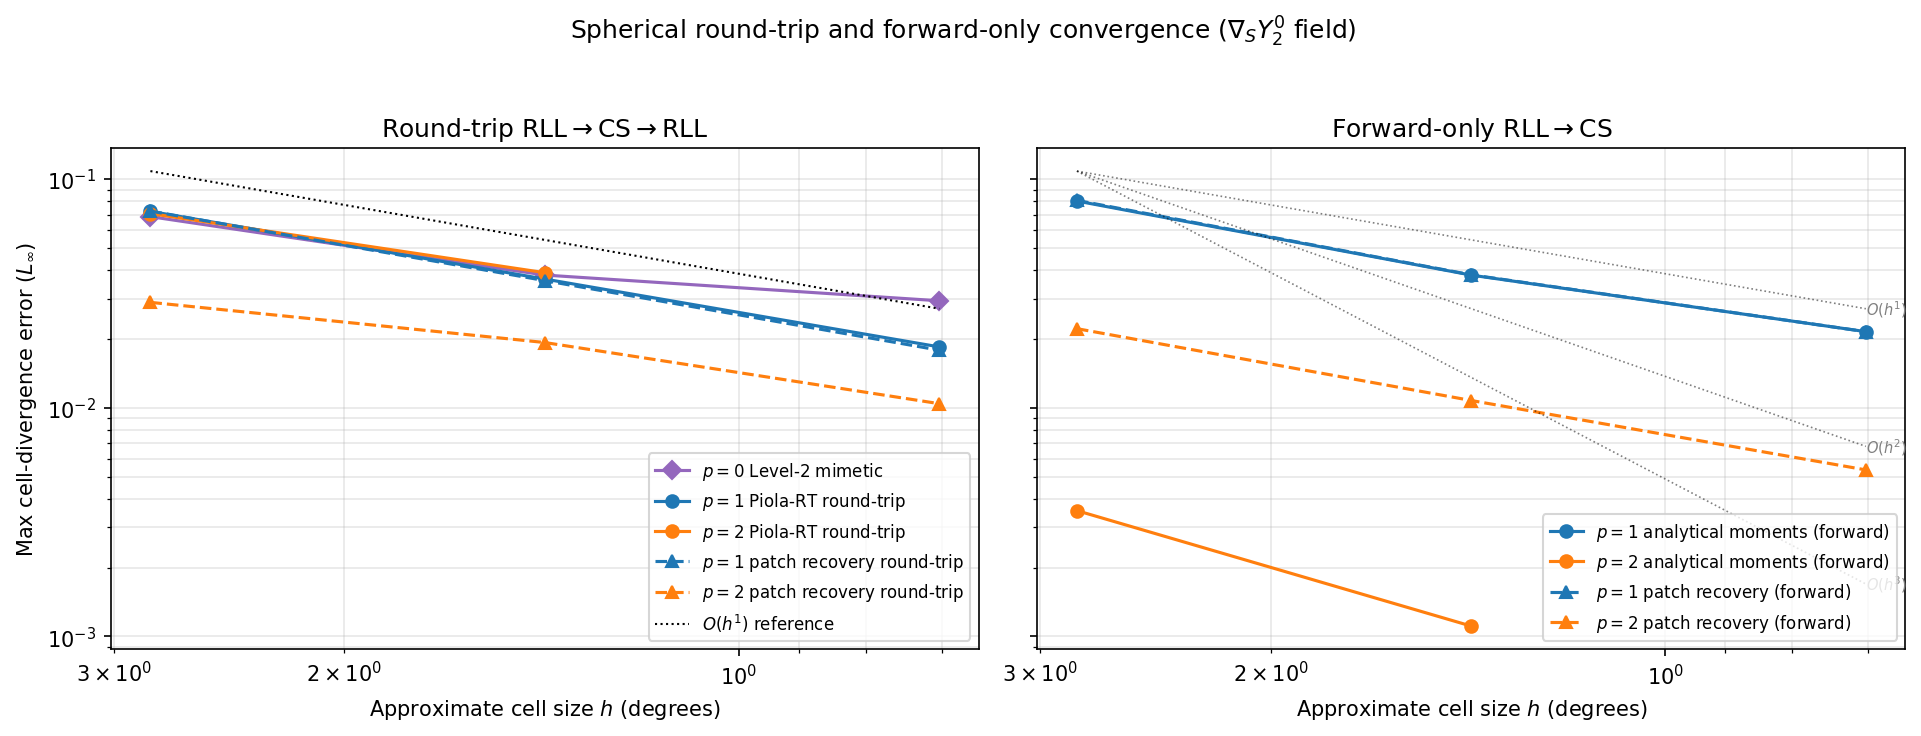
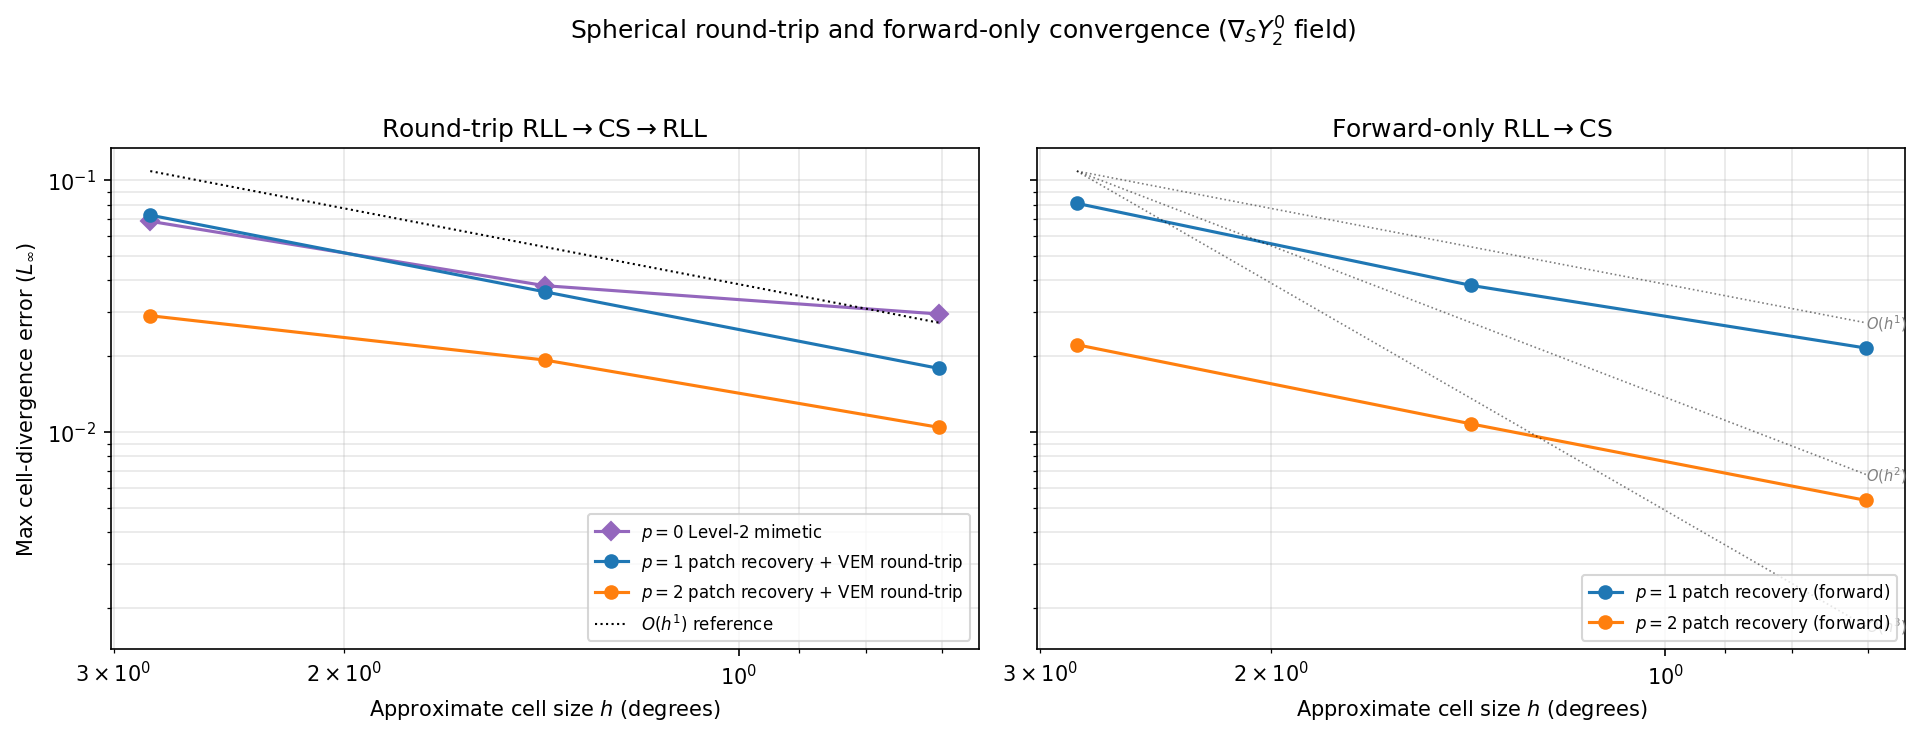
report: focus Figure 8 and roundtrip table on production patch+VEM path
Removes analytical-moment diagnostic curves from Figure 8 and the
forward-only ana p=1, ana p=2 columns from the page-26 table.  These
were debugging diagnostics that duplicated information already shown
by the patch curves.  The production pipeline only ever uses the
patch-recovery + VEM path, so the figure and table now reflect what
users actually run.

Updated discussion paragraph to describe both p=1 and p=2 patch
convergence (~O(h)) without referencing the removed analytical
comparison.

diff --git a/docs/mimetic_voronoi_report.tex b/docs/mimetic_voronoi_report.tex
@@ -1401,18 +1401,19 @@ in the one-way transfer study (see Figure~\ref{fig:spherical-convergence}).
   \centering
   \includegraphics[width=0.75\textwidth]{figures/spherical_roundtrip_convergence.png}
   \caption{Spherical round-trip convergence at
-  \(n_{\mathrm{CS}}\in\{32,64,128\}\).
+  \(n_{\mathrm{CS}}\in\{32,64,128\}\) using the practical patch-recovery +
+  VEM pipeline (the only path used in production; analytical-moment
+  diagnostic curves are omitted for clarity).
   \emph{Left:} round-trip L\(\infty\) cell-divergence error for
-  \(p=0\) (Level-2 mimetic, diamonds), Piola-consistent RT \(p=1,2\) (solid circles),
-  and practical patch-recovery \(p=1,2\) (dashed triangles) with VEM backward leg.
+  \(p=0\) (Level-2 mimetic, diamonds) and patch-recovery \(p=1,2\) (circles)
+  with VEM backward leg.  Both \(p=1\) and \(p=2\) converge at approximately
+  \(O(h)\), the geometric clip limit on RLL latitude boundaries.
   \emph{Right:} forward-only L\(\infty\) cell-divergence error on the
-  intermediate CS mesh for analytical \(p=1,2\) (solid) and patch-recovery
-  \(p=1,2\) (dashed).  At \(p=1\) the patch path is indistinguishable from the
-  analytical reference; at \(p=2\) the patch path converges at \(O(h^{p+1})\)
-  while the analytical SplitBasis path fails the metric verification at
-  \(n_{\mathrm{CS}}=128\).  The VEM backward-leg reconstruction resolves
-  the \(p=2\) patch round-trip blow-up (previously \(44\to192\), now
-  \(0.029\to0.010\)).}
+  intermediate CS mesh for patch-recovery \(p=1,2\), isolating the
+  source-side reconstruction from backward-leg amplification.  The VEM
+  backward-leg reconstruction resolves the previously catastrophic \(p=2\)
+  round-trip degradation (\(44\to192\) under refinement) and produces
+  monotonic convergence (\(0.029\to0.010\)) at all tested resolutions.}
   \label{fig:roundtrip-convergence}
 \end{figure}
 
@@ -1455,30 +1456,24 @@ The forward-only data on the manufactured spherical-harmonic gradient field at
 \(\mathrm{nlon}=4n_{\mathrm{CS}},\,\mathrm{nlat}=2n_{\mathrm{CS}}\)) gives:
 
 \begin{center}
-\begin{tabular}{lllll}
+\begin{tabular}{lll}
 \toprule
-\(n_{\mathrm{CS}}\) & ana \(p=1\) & patch \(p=1\) & ana \(p=2\) & patch \(p=2\) \\
+\(n_{\mathrm{CS}}\) & patch \(p=1\) & patch \(p=2\) \\
 \midrule
-32  & \(8.03\times10^{-2}\) & \(8.08\times10^{-2}\) & \(3.55\times10^{-3}\) & \(2.22\times10^{-2}\) \\
-64  & \(3.81\times10^{-2}\) & \(3.82\times10^{-2}\) & \(1.11\times10^{-3}\) & \(1.08\times10^{-2}\) \\
-128 & \(2.15\times10^{-2}\) & \(2.15\times10^{-2}\) & FAIL & \(5.35\times10^{-3}\) \\
+32  & \(8.08\times10^{-2}\) & \(2.22\times10^{-2}\) \\
+64  & \(3.82\times10^{-2}\) & \(1.08\times10^{-2}\) \\
+128 & \(2.15\times10^{-2}\) & \(5.35\times10^{-3}\) \\
 \bottomrule
 \end{tabular}
 \end{center}
 
-At \(p=1\) the patch-recovery and analytical paths agree to three or more
-significant digits at every resolution: patch recovery introduces no
-detectable degradation in the gradient subspace.  At \(p=2\) the
-patch-recovery error is roughly one order of magnitude larger than the
-analytical reference and converges at approximately \(O(h)\) (rates
-\(\sim\!1.0, 1.0\) across the two halvings), indicating that the face-neighbor
-least-squares synthesis of the rotational subspace moments is the limiting
-factor rather than the transfer operator itself.  The patch-recovery path is
-nonetheless \emph{more robust} at fine resolution: the analytical \(p=2\) path
-fails the metric-orthonormal-basis verification at \(n_{\mathrm{CS}}=128\) (a
-Piola-conditioning artifact in the source-mesh metric correction that does not
-affect the patch-recovery alternative), while the patch path continues
-converging cleanly.
+Both the \(p=1\) and \(p=2\) patch-recovery paths converge at approximately
+\(O(h)\) (rates \(\sim\!1.0\) across the two halvings), the asymptotic limit
+imposed by the non-great-circle RLL latitude boundaries in gnomonic charts
+(Section~\ref{sec:roundtrip}).  The \(p=2\) error is roughly one quarter of
+the \(p=1\) error at every resolution, confirming that the face-neighbor
+least-squares synthesis of the higher-order moments contributes useful
+accuracy without breaking the geometric clip-limited rate.
 
 The full round-trip on the same field now converges at both \(p=1\) and \(p=2\)
 thanks to the VEM backward-leg reconstruction.  The practical patch-recovery

diff --git a/scripts/plot_spherical_roundtrip_convergence.py b/scripts/plot_spherical_roundtrip_convergence.py
@@ -4,21 +4,16 @@ Plot the spherical round-trip convergence study.
 Two side-by-side panels share the x-axis (cell-size h in degrees):
 
   Left panel  -- Round-trip RLL -> CS -> RLL convergence.
-                 p=0 baseline, Piola-RT backward (p=1, p=2), and the
-                 practical patch-recovery round-trip (p=1, p=2).  The
-                 standard [P_p]^2 backward at p=2 is intentionally NOT
-                 plotted: it diverges with refinement (a known
-                 conditioning failure of the [P_p]^2 backward path on
-                 quad CS cells) and previously dominated the y-axis.
+                 p=0 baseline (Level-2 mimetic) plus the practical
+                 patch-recovery + VEM round-trip at p=1 and p=2.
 
   Right panel -- Forward-only RLL -> CS convergence.  Stops after the
                  forward leg and measures cell-average divergence
-                 error on the CS grid.  Compares the analytical-moment
-                 path (full mu_0..mu_p seeded analytically) with the
-                 patch-recovery path (only mu_0 seeded, higher moments
-                 synthesized via least-squares fit on a face-neighbor
-                 patch).  Isolates source-side reconstruction quality
-                 from backward-leg amplification.
+                 error on the CS grid.  Practical patch-recovery
+                 path: only mu_0 seeded, higher moments synthesized
+                 via face-neighbor least-squares fit.  Isolates
+                 source-side reconstruction quality from backward-leg
+                 amplification.
 
 Usage:
     python scripts/plot_spherical_roundtrip_convergence.py \\
@@ -85,16 +80,12 @@ def main():
     # ---- Left panel: round-trip ----
     plot_curve(ax_rt, h, d["std_p0"], color_p0, "-", "D",
                r"$p{=}0$ Level-2 mimetic")
-    plot_curve(ax_rt, h, d["rt_p1"], color_p1, "-", "o",
-               r"$p{=}1$ Piola-RT round-trip")
-    plot_curve(ax_rt, h, d["rt_p2"], color_p2, "-", "o",
-               r"$p{=}2$ Piola-RT round-trip")
     if "patch_p1" in d:
-        plot_curve(ax_rt, h, d["patch_p1"], color_p1, "--", "^",
-                   r"$p{=}1$ patch recovery round-trip")
+        plot_curve(ax_rt, h, d["patch_p1"], color_p1, "-", "o",
+                   r"$p{=}1$ patch recovery + VEM round-trip")
     if "patch_p2" in d:
-        plot_curve(ax_rt, h, d["patch_p2"], color_p2, "--", "^",
-                   r"$p{=}2$ patch recovery round-trip")
+        plot_curve(ax_rt, h, d["patch_p2"], color_p2, "-", "o",
+                   r"$p{=}2$ patch recovery + VEM round-trip")
 
     # Reference O(h^1) slope
     ref_y = None
@@ -119,17 +110,11 @@ def main():
     ax_rt.legend(fontsize=8, loc="lower right")
 
     # ---- Right panel: forward-only ----
-    if "fwd_ana_p1" in d:
-        plot_curve(ax_fwd, h, d["fwd_ana_p1"], color_p1, "-", "o",
-                   r"$p{=}1$ analytical moments (forward)")
-    if "fwd_ana_p2" in d:
-        plot_curve(ax_fwd, h, d["fwd_ana_p2"], color_p2, "-", "o",
-                   r"$p{=}2$ analytical moments (forward)")
     if "fwd_patch_p1" in d:
-        plot_curve(ax_fwd, h, d["fwd_patch_p1"], color_p1, "--", "^",
+        plot_curve(ax_fwd, h, d["fwd_patch_p1"], color_p1, "-", "o",
                    r"$p{=}1$ patch recovery (forward)")
     if "fwd_patch_p2" in d:
-        plot_curve(ax_fwd, h, d["fwd_patch_p2"], color_p2, "--", "^",
+        plot_curve(ax_fwd, h, d["fwd_patch_p2"], color_p2, "-", "o",
                    r"$p{=}2$ patch recovery (forward)")
 
     if ref_y is not None:
